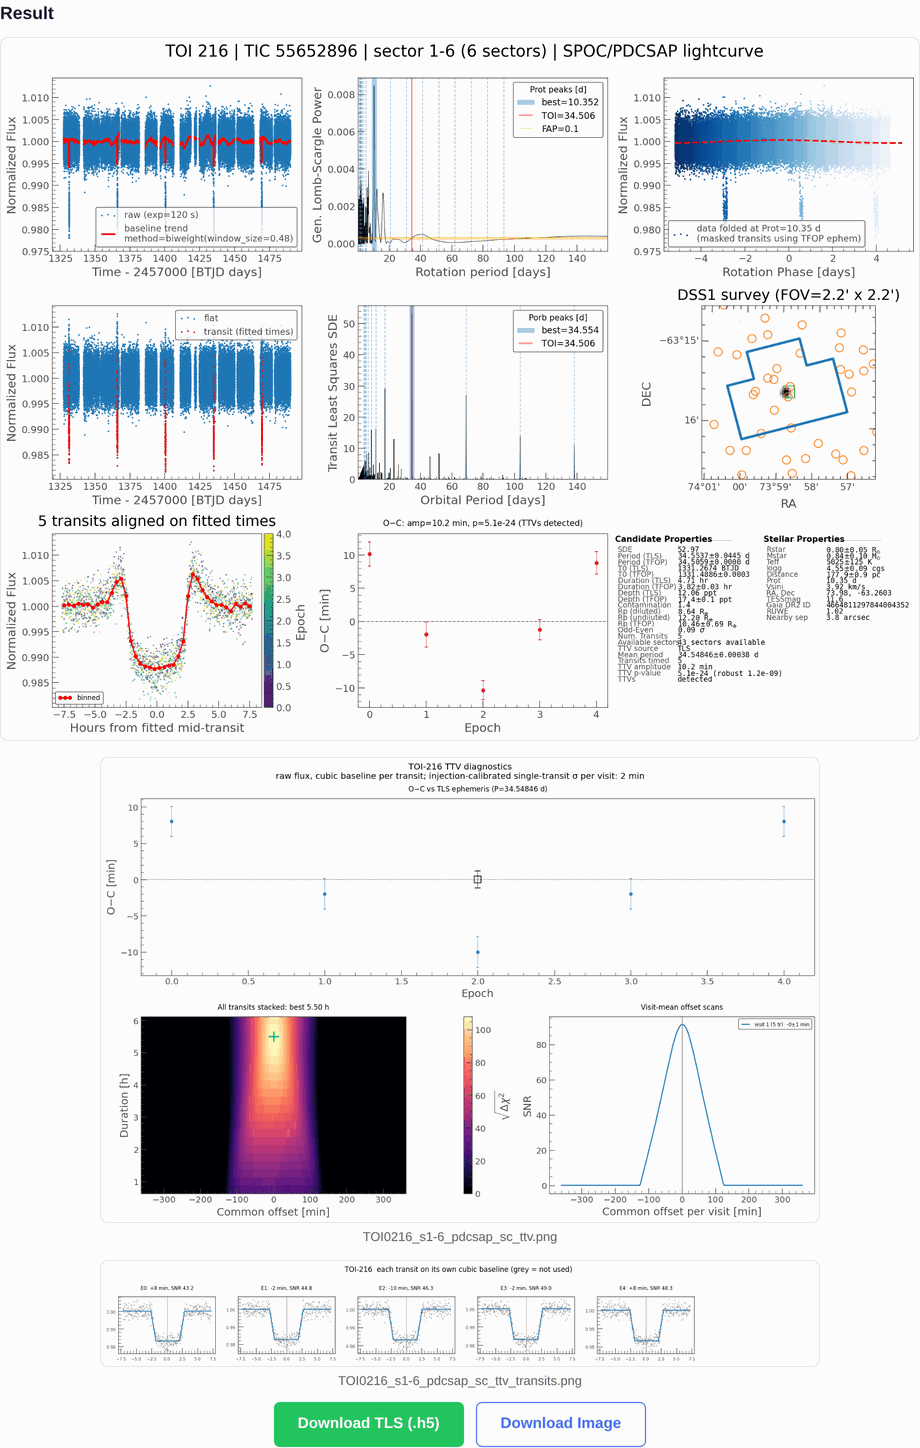
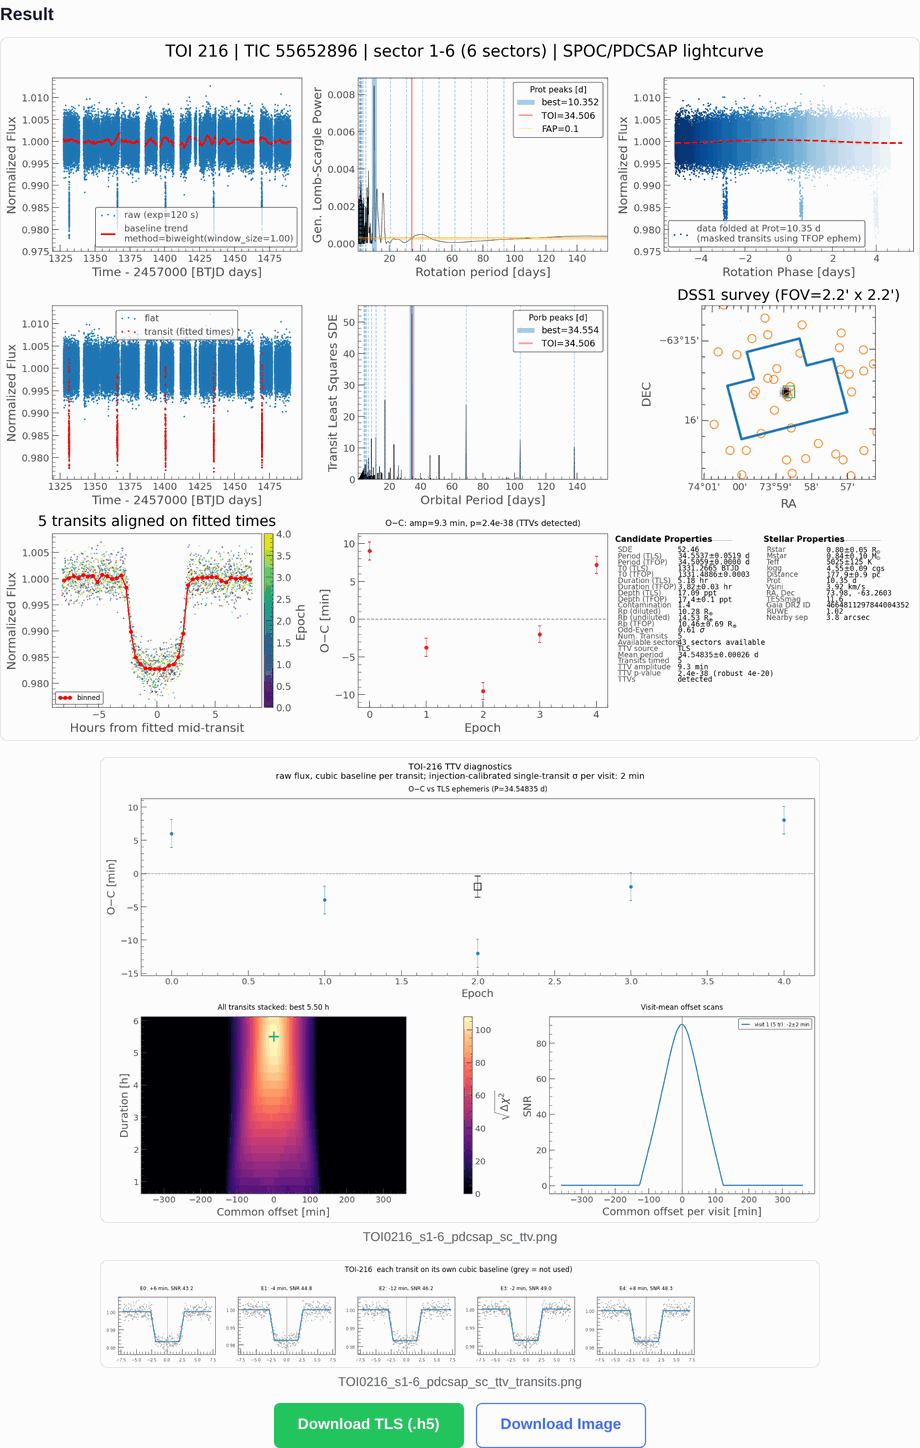
docs: use a 1-day detrending window for the TOI-216 TTV screenshot
Matches the --window-length 1 CLI example in docs/ttv-search.md; the
auto-optimized 0.48 d window is only ~2.5x the transit duration and
eats into the transit depth.

diff --git a/docs/gui.md b/docs/gui.md
@@ -30,7 +30,7 @@ This starts a local server at [http://127.0.0.1:5000](http://127.0.0.1:5000).
 
    ![Period Search options](img/ql-gui-period-search.png)
 
-   A TTV run (TOI-216, Sector `1-6`, Exposure Time `120`) shows the quicklook figure with `*_ttv.png` and `*_ttv_transits.png` under it:
+   A TTV run (TOI-216, Sector `1-6`, Exposure Time `120`, Window Length `1` under Detrending) shows the quicklook figure with `*_ttv.png` and `*_ttv_transits.png` under it:
 
    ![TOI-216 TTV run in the GUI](img/ql-gui-ttv-result.png)
 4. Click **Run QuickLook**
